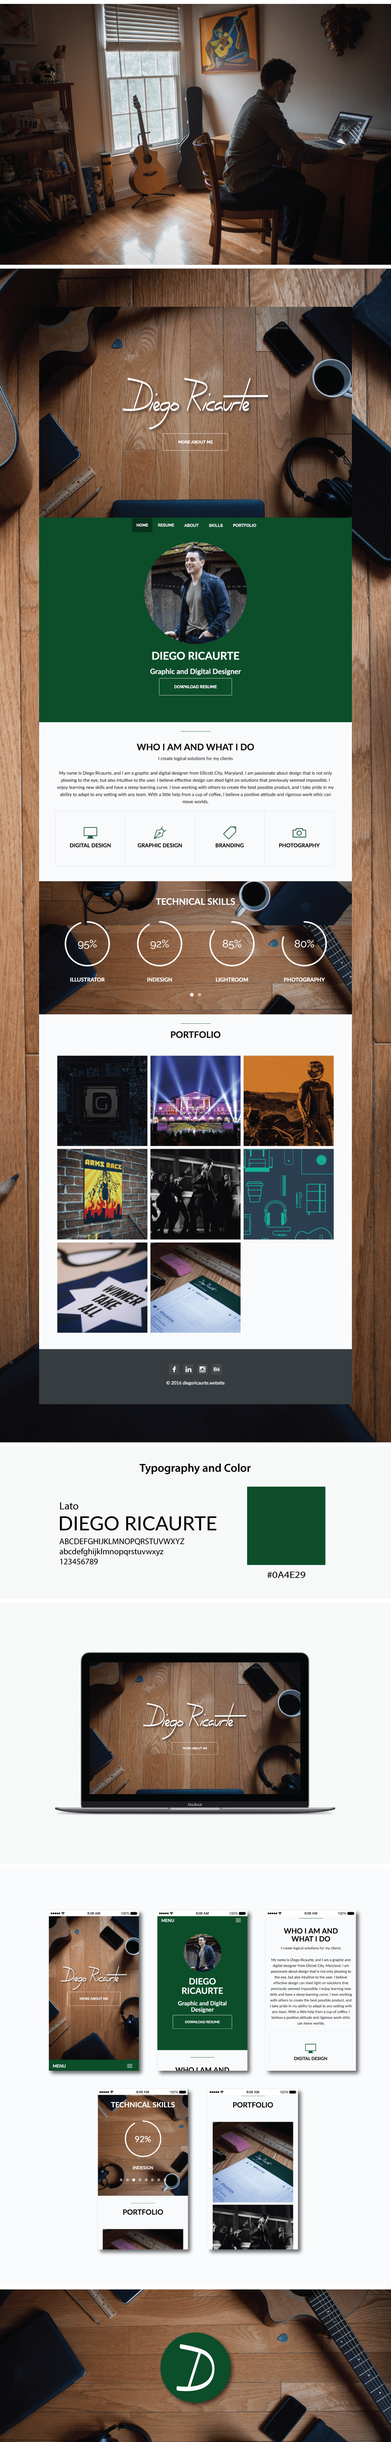
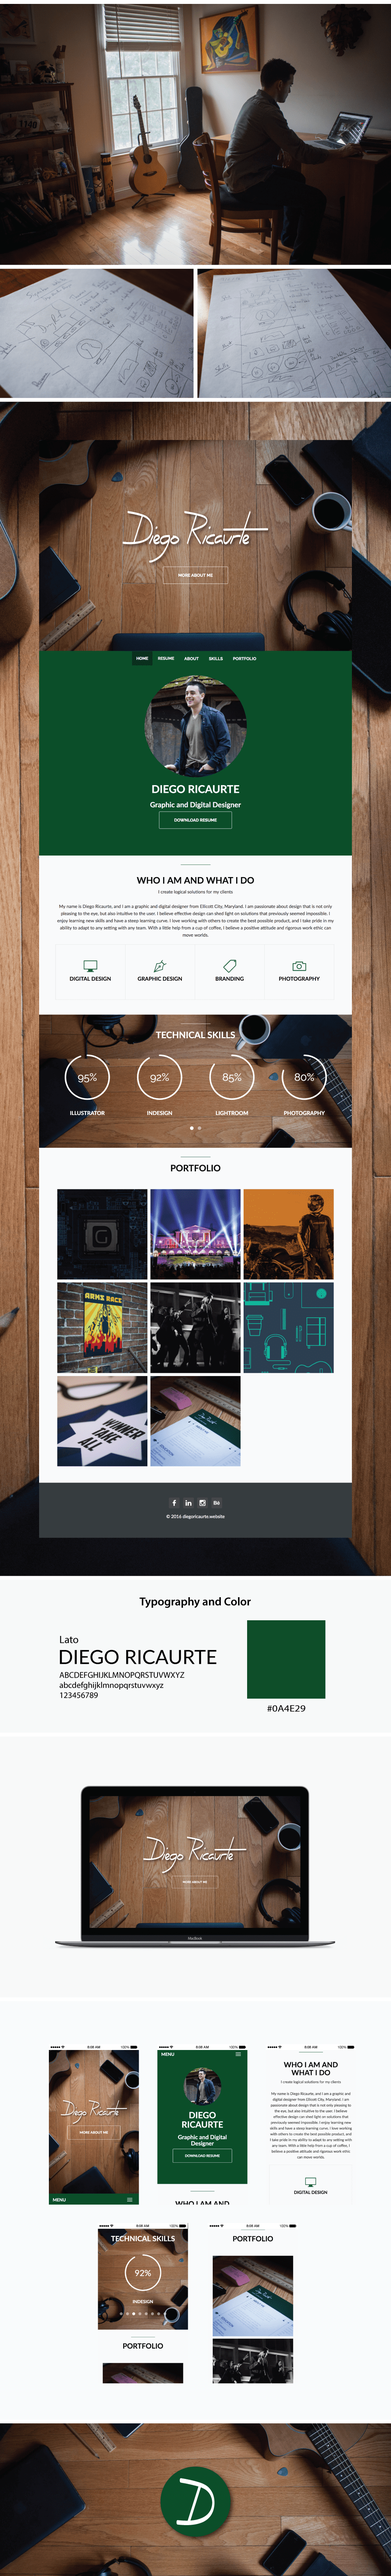
Minor Portfolio Updates
Removed arms race, fixed nav bar for items

diff --git a/the-key-elements-spread.php b/the-key-elements-spread.php
@@ -20,7 +20,7 @@
             <nav>
               <ul class="nav navbar-nav">
                 <!--Nav Menu-->
-                <li><a href="#welcome">HOME</a></li>
+                <li><a href="index.php#welcome">HOME</a></li>
                 <li><a href="index.php#resume"">RESUME</a></li>
                 <li><a href="index.php#about">ABOUT</a></li>
                 <li><a href="index.php#skills">SKILLS</a></li>
@@ -39,13 +39,12 @@
       <div class= "row">
         <div class= "col-xs-8 centered">
           <div class="heading">
-            <h2 class="portfoliotitle">The Key Elements</h2>
-            <h4> Brand / Digital / UX / UI </h4> 
-            <p> <b> Live Link: </b> <a href="www.thekeyelements.online"> www.thekeyelements.online </a>
-            <p> <b> Objective: </b> My primary objective in working with The Key Element's a cappella group was a complete branding overhaul that would target the average Cornell student. To accomplish this goal, I decided to conceptualize, design, and code a new website for the group. This rehauled media would facilitate a renewed impression on the Cornell population in order to and maximize audition and concert attendance. 
+            <h2 class="portfoliotitle">Wake Will</h2>
+            <h4> Brand / Graphics / Event Design </h4> 
+            <p> <b> Objective: The objective of Wake Will  was to give rise to a groundswell of support from a devoted community of Wake Foresters, and its success laid the foundation for the pursuit of something even greater. With this in mind, it was my objective to create interactive stations that would engage and captivate guests, speaking to the target audience of the Wake Forest Alumni population. </b> 
             <p/>
-            <p> <b> Challenge: </b> The target user for the new website is the average Cornell Student. Given such a large scope, I put a focus on a wide apppeal, creating a brand that is attractive to all viewers, regardless of music preference or gender. The new website needed to be desktop and mobile friendly, as well as give easy access to the groups music, events, personality, merchandise, and contact information. Lastly, this rebrand had to set the Key Elements apart from any of the other 20+ singing groups on campus</p>
-            <p><b> Solution: </b> The newly designed logo maintains the core 'bolt' motif of the original imaging, and adds a musical component in order to stay true to the nature of the group. The custom built site utilizes a simple scroll-through structure, and navigates the user through the groups member information, music, merchandise. Widgets and links throughout the site guide the user to various social media and music platforms the group utilizes, allowing for easy access to various promotional content. The overall tone of the website is neutral and people-focused, allowing the personality of the group to shine through, and creates a genuine user experience of The Key Elements A Cappella. <p/> 
+            <p> <b> Challenge: In order to engage the target audience, I would need incorporate the Wake Forest branding into my designs in order to create a feeling of familiarity. Creating at a larger scale also entailed a different approach to print design, placing a even larger focus on smaller details.</b> </p>
+            <p><b> Solution: </b> In order to connect to the Wake Forest Alumni, I created interactives that invited user interactivity. The Wake Will book encouraged Alumni to share Wake Forest's impact on their lives. The rotating cube's displayed achievemenets of current Wake Undergraduates, allowing alumni to explore different students with each side of the cube. By enouraging Alumni to learn more about the current Wake Forest population, as well as reminesce their own history with the institution, the interactives enouraged action in the Alumni and fostered greater pride in their alma mater. <p/> 
           </div>
 
         </div>

diff --git a/index.php b/index.php
@@ -236,27 +236,16 @@
 						</div>
 					</a>
 	            </div>
-	            
-				<div class="col-xs-12 col-sm-6 col-md-4 col-lg-3 thumb">
-	                <a href="arms-race-spread.php">
-						<div class="figure cap-bot">
-							<img class="thumbimage img-responsive centered" src="images/portfolio-thumbs/arms-race-thumb.png" alt="">						
-							<div class="figcaption">
-								<h5>Arms Race</h5>
-							</div>
-						</div>
-					</a>
-	            </div>
 				<div class="col-xs-12 col-sm-6 col-md-4 col-lg-3 thumb">
 	                <a href="photography-spread.php">
 						<div class="figure cap-bot">
-							<img class="thumbimage img-responsive centered" src="images/portfolio-thumbs/photography-thumb.png" alt="">						
+							<img class="thumbimage img-responsive centered" src="images/portfolio-thumbs/photography-thumb.png" alt="">					
 							<div class="figcaption">
 								<h5>Photography</h5>
 							</div>
 						</div>
 					</a>
-	            </div>
+	            </div>    
 		    </div>
 	    </div>
     </section> 

diff --git a/agv-sport-spread.php b/agv-sport-spread.php
@@ -20,7 +20,7 @@
             <nav>
               <ul class="nav navbar-nav">
                 <!--Nav Menu-->
-                <li><a href="#welcome">HOME</a></li>
+                <li><a href="index.php#welcome">HOME</a></li>
                 <li><a href="index.php#resume"">RESUME</a></li>
                 <li><a href="index.php#about">ABOUT</a></li>
                 <li><a href="index.php#skills">SKILLS</a></li>

diff --git a/dr-design-spread.php b/dr-design-spread.php
@@ -20,7 +20,7 @@
             <nav>
               <ul class="nav navbar-nav">
                 <!--Nav Menu-->
-                <li><a href="#welcome">HOME</a></li>
+                <li><a href="index.php#welcome">HOME</a></li>
                 <li><a href="index.php#resume"">RESUME</a></li>
                 <li><a href="index.php#about">ABOUT</a></li>
                 <li><a href="index.php#skills">SKILLS</a></li>

diff --git a/gtech-designs-spread.php b/gtech-designs-spread.php
@@ -20,7 +20,7 @@
             <nav>
               <ul class="nav navbar-nav">
                 <!--Nav Menu-->
-                <li><a href="#welcome">HOME</a></li>
+                <li><a href="index.php#welcome">HOME</a></li>
                 <li><a href="index.php#resume"">RESUME</a></li>
                 <li><a href="index.php#about">ABOUT</a></li>
                 <li><a href="index.php#skills">SKILLS</a></li>

diff --git a/photography-spread.php b/photography-spread.php
@@ -20,7 +20,7 @@
             <nav>
               <ul class="nav navbar-nav">
                 <!--Nav Menu-->
-                <li><a href="#welcome">HOME</a></li>
+                <li><a href="index.php#welcome">HOME</a></li>
                 <li><a href="index.php#resume"">RESUME</a></li>
                 <li><a href="index.php#about">ABOUT</a></li>
                 <li><a href="index.php#skills">SKILLS</a></li>

diff --git a/signature-website-spread.php b/signature-website-spread.php
@@ -20,7 +20,7 @@
             <nav>
               <ul class="nav navbar-nav">
                 <!--Nav Menu-->
-                <li><a href="#welcome">HOME</a></li>
+                <li><a href="index.php#welcome">HOME</a></li>
                 <li><a href="index.php#resume"">RESUME</a></li>
                 <li><a href="index.php#about">ABOUT</a></li>
                 <li><a href="index.php#skills">SKILLS</a></li>

diff --git a/superstar-fitness-spread.php b/superstar-fitness-spread.php
@@ -20,7 +20,7 @@
             <nav>
               <ul class="nav navbar-nav">
                 <!--Nav Menu-->
-                <li><a href="#welcome">HOME</a></li>
+                <li><a href="index.php#welcome">HOME</a></li>
                 <li><a href="index.php#resume"">RESUME</a></li>
                 <li><a href="index.php#about">ABOUT</a></li>
                 <li><a href="index.php#skills">SKILLS</a></li>
